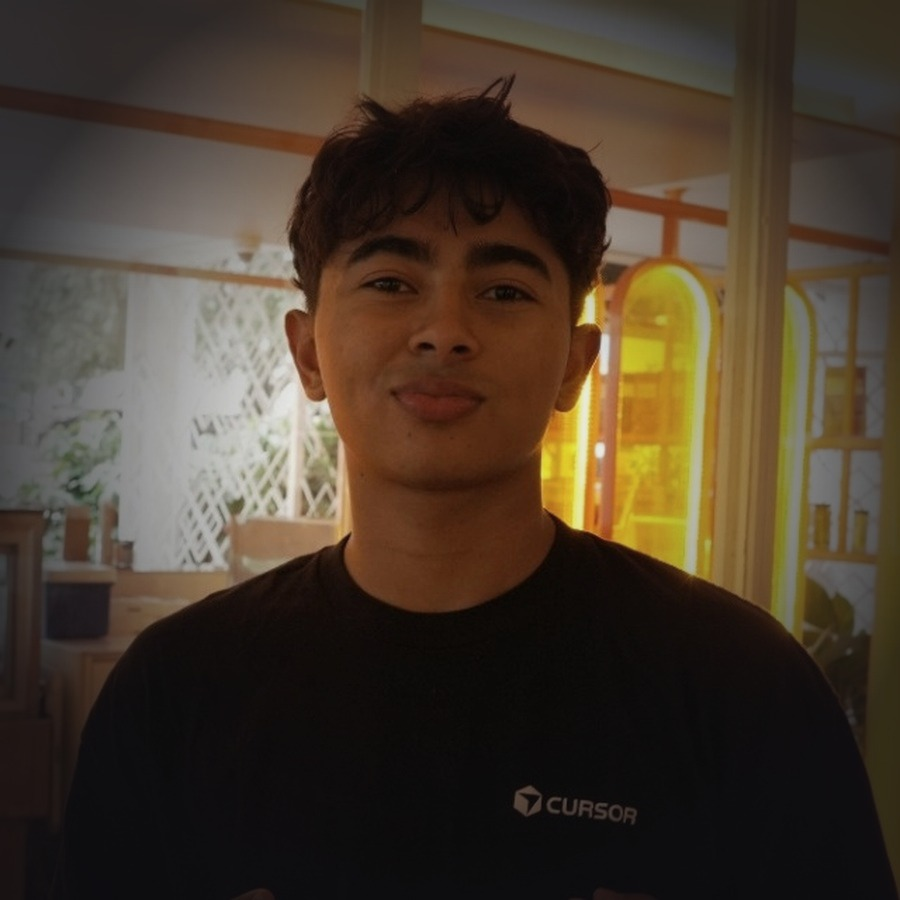
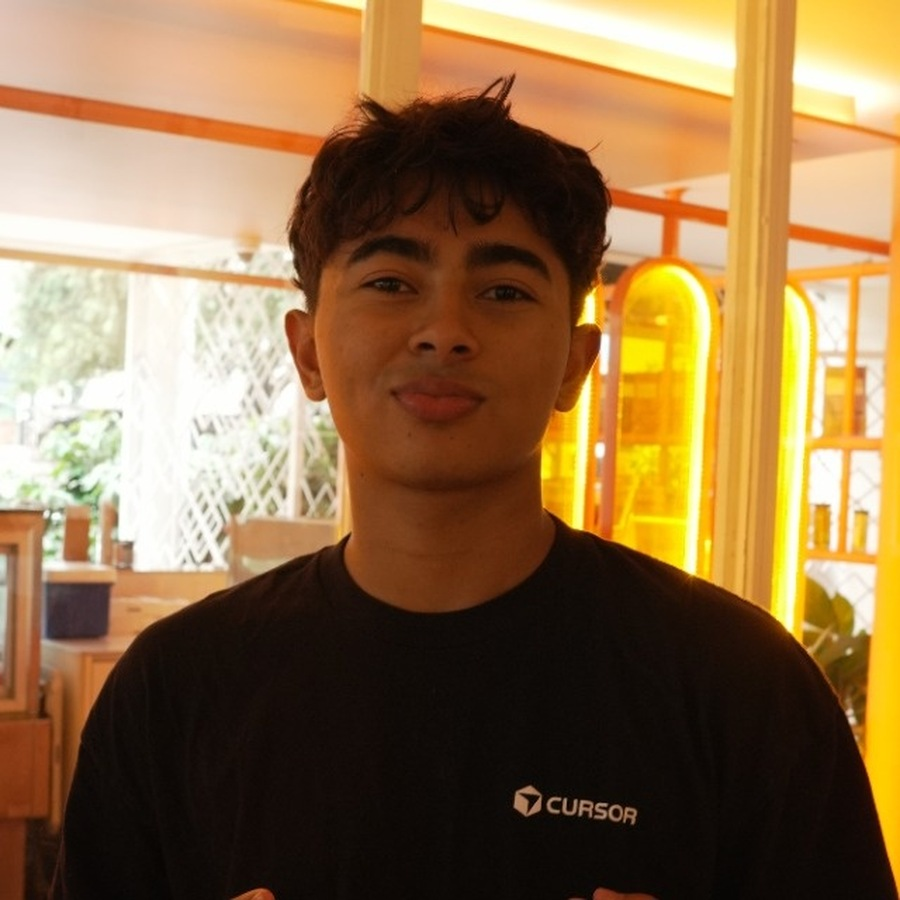
p9: recenter team photos without vignette (face3)
Update all five portraits with face-centered crops like Josué;
bump img cache-bust to ?v=face3.

diff --git a/p9/index.html b/p9/index.html
@@ -205,7 +205,7 @@ html,body{overflow-x:clip}
 <div class="rec"><article><b>01</b><h3>Talleres prácticos</h3><p>Sesiones para aprender haciendo, desde lo básico hasta lo aplicado.</p></article><article><b>02</b><h3>Material educativo</h3><p>Guías, recursos y contenido curado para explorar Web3 a tu ritmo.</p></article><article><b>03</b><h3>Networking y comunidad</h3><p>Espacios para conectar con personas, ideas y proyectos.</p></article><article><b>04</b><h3>Oportunidades</h3><p>Difusión de programas, convocatorias y espacios para participar.</p></article></div></section>
 <section><div class="hd"><h2><span class="thin">Así se vive</span><br><span class="heavy">ZEEK</span></h2></div><div class="gal"><figure class="big"><img src="assets/g-aleph-grupo.jpg" alt="Aleph Hackathon II" loading="lazy"><figcaption>Aleph Hackathon II</figcaption></figure><figure class=""><img src="assets/g-dev3pack.jpg" alt="Dev3Pack x Solana" loading="lazy"><figcaption>Dev3Pack x Solana</figcaption></figure><figure class=""><img src="assets/g-aleph-build.jpg" alt="Aleph Hackathon" loading="lazy"><figcaption>Aleph Hackathon</figcaption></figure><figure class=""><img src="assets/g-cursor.jpg" alt="Cursor Meetup San José" loading="lazy"><figcaption>Cursor Meetup San José</figcaption></figure><figure class=""><img src="assets/g-tico.jpg" alt="TicoBlockchain" loading="lazy"><figcaption>TicoBlockchain</figcaption></figure><figure class="wide"><img src="assets/gal-una-wide.jpg" alt="Meet Up UNA · 9 de mayo" loading="lazy"></figure><figure class=""><img src="assets/g-sesiones.jpg" alt="Encuentros ZEEK" loading="lazy"><figcaption>Encuentros ZEEK</figcaption></figure><figure class=""><img src="assets/g-meetup.jpg" alt="Meetup ZEEK" loading="lazy"><figcaption>Meetup ZEEK</figcaption></figure></div></section>
 
-<section id="equipo"><div class="hd"><h2><span class="thin">Las personas</span><br><span class="heavy">detrás de ZEEK</span></h2><p>Conocenos. El equipo que hace posible la comunidad.</p></div><div class="team" id="tcar"><button class="arr tarr" id="tpv" type="button" aria-label="Anterior">←</button><button class="arr tarr" id="tnx" type="button" aria-label="Siguiente">→</button><div class="fl3"><div class="fi3"><div class="fa3"><div class="av3"><img src="assets/team/sebastian.jpg?v=vignette1" alt="Sebastián Ceciliano" width="120" height="120" loading="lazy" decoding="async"></div><div class="nm"><h4>Sebastián Ceciliano</h4><span class="ib" aria-hidden="true"><svg viewBox="0 0 24 24"><polyline points="3 17 9 11 13 15 21 7"/><polyline points="15 7 21 7 21 13"/></svg></span></div></div><div class="fb3"><div class="rl">Growth Head</div><p>Lidera el crecimiento de ZEEK, sumando aliados y nuevas oportunidades para la comunidad.</p></div></div></div><div class="fl3"><div class="fi3"><div class="fa3"><div class="av3"><img src="assets/team/tamara.jpg?v=vignette1" alt="Tamara Ortega" width="120" height="120" loading="lazy" decoding="async"></div><div class="nm"><h4>Tamara Ortega</h4><span class="ib" aria-hidden="true"><svg viewBox="0 0 24 24"><path d="M9.6 2.8h4.8l.55 2.15a6.9 6.9 0 0 1 1.85.95l2.1-.9 2.4 4.15-1.7 1.55c.12.45.18.92.18 1.4s-.06.95-.18 1.4l1.7 1.55-2.4 4.15-2.1-.9a6.9 6.9 0 0 1-1.85.95L14.4 21.2H9.6l-.55-2.15a6.9 6.9 0 0 1-1.85-.95l-2.1.9-2.4-4.15 1.7-1.55A6.8 6.8 0 0 1 4.22 12c0-.48.06-.95.18-1.4L2.7 9.05l2.4-4.15 2.1.9a6.9 6.9 0 0 1 1.85-.95L9.6 2.8z"/><circle cx="12" cy="12" r="3.1"/></svg></span></div></div><div class="fb3"><div class="rl">Operations Head</div><p>Lleva a cabo que los proyectos de ZEEK pasen del papel a la realidad.</p></div></div></div><div class="fl3"><div class="fi3"><div class="fa3"><div class="av3"><img src="assets/team/emilio.jpg?v=vignette1" alt="Emilio Alfaro" width="120" height="120" loading="lazy" decoding="async"></div><div class="nm"><h4>Emilio Alfaro</h4><span class="ib" aria-hidden="true"><svg viewBox="0 0 24 24"><path d="M4.5 5.5h11a2 2 0 0 1 2 2v5.2a2 2 0 0 1-2 2H10l-3.2 2.6V14.7H4.5a2 2 0 0 1-2-2V7.5a2 2 0 0 1 2-2z"/><path d="M9.2 16.8h6.3l2.6 2.1v-2.1h.4a2 2 0 0 0 2-2V10"/></svg></span></div></div><div class="fb3"><div class="rl">Communications Head</div><p>Cuenta lo que pasa en ZEEK, compartiendo lo que la comunidad construye.</p></div></div></div><div class="fl3"><div class="fi3"><div class="fa3"><div class="av3"><img src="assets/team/esteban.jpg?v=vignette1" alt="Esteban Brenes" width="120" height="120" loading="lazy" decoding="async"></div><div class="nm"><h4>Esteban Brenes</h4><span class="ib" aria-hidden="true"><svg viewBox="0 0 24 24"><polyline points="8 6 3 12 8 18"/><polyline points="16 6 21 12 16 18"/><line x1="13.5" y1="5" x2="10.5" y2="19"/></svg></span></div></div><div class="fb3"><div class="rl">Technical Head</div><p>Acompaña a los builders de ZEEK en el desarrollo de cada proyecto.</p></div></div></div><div class="fl3"><div class="fi3"><div class="fa3"><div class="av3"><img src="assets/team/josue.jpg?v=vignette1" alt="Josué Valles" width="120" height="120" loading="lazy" decoding="async"></div><div class="nm"><h4>Josué Valles</h4><span class="ib" aria-hidden="true"><svg viewBox="0 0 24 24"><rect x="3.5" y="5" width="17" height="15.5" rx="2"/><line x1="3.5" y1="10" x2="20.5" y2="10"/><line x1="8" y1="3.5" x2="8" y2="7"/><line x1="16" y1="3.5" x2="16" y2="7"/><circle cx="8.5" cy="14.2" r="0.9" fill="#01E576" stroke="none"/><circle cx="12" cy="14.2" r="0.9" fill="#01E576" stroke="none"/><circle cx="15.5" cy="14.2" r="0.9" fill="#01E576" stroke="none"/></svg></span></div></div><div class="fb3"><div class="rl">Logistics Head</div><p>Coordina que cada evento de la comunidad esté listo, desde el espacio hasta los detalles.</p></div></div></div></div><div class="cc tcc"><div class="dots" id="tdots"></div></div></section>
+<section id="equipo"><div class="hd"><h2><span class="thin">Las personas</span><br><span class="heavy">detrás de ZEEK</span></h2><p>Conocenos. El equipo que hace posible la comunidad.</p></div><div class="team" id="tcar"><button class="arr tarr" id="tpv" type="button" aria-label="Anterior">←</button><button class="arr tarr" id="tnx" type="button" aria-label="Siguiente">→</button><div class="fl3"><div class="fi3"><div class="fa3"><div class="av3"><img src="assets/team/sebastian.jpg?v=face3" alt="Sebastián Ceciliano" width="120" height="120" loading="lazy" decoding="async"></div><div class="nm"><h4>Sebastián Ceciliano</h4><span class="ib" aria-hidden="true"><svg viewBox="0 0 24 24"><polyline points="3 17 9 11 13 15 21 7"/><polyline points="15 7 21 7 21 13"/></svg></span></div></div><div class="fb3"><div class="rl">Growth Head</div><p>Lidera el crecimiento de ZEEK, sumando aliados y nuevas oportunidades para la comunidad.</p></div></div></div><div class="fl3"><div class="fi3"><div class="fa3"><div class="av3"><img src="assets/team/tamara.jpg?v=face3" alt="Tamara Ortega" width="120" height="120" loading="lazy" decoding="async"></div><div class="nm"><h4>Tamara Ortega</h4><span class="ib" aria-hidden="true"><svg viewBox="0 0 24 24"><path d="M9.6 2.8h4.8l.55 2.15a6.9 6.9 0 0 1 1.85.95l2.1-.9 2.4 4.15-1.7 1.55c.12.45.18.92.18 1.4s-.06.95-.18 1.4l1.7 1.55-2.4 4.15-2.1-.9a6.9 6.9 0 0 1-1.85.95L14.4 21.2H9.6l-.55-2.15a6.9 6.9 0 0 1-1.85-.95l-2.1.9-2.4-4.15 1.7-1.55A6.8 6.8 0 0 1 4.22 12c0-.48.06-.95.18-1.4L2.7 9.05l2.4-4.15 2.1.9a6.9 6.9 0 0 1 1.85-.95L9.6 2.8z"/><circle cx="12" cy="12" r="3.1"/></svg></span></div></div><div class="fb3"><div class="rl">Operations Head</div><p>Lleva a cabo que los proyectos de ZEEK pasen del papel a la realidad.</p></div></div></div><div class="fl3"><div class="fi3"><div class="fa3"><div class="av3"><img src="assets/team/emilio.jpg?v=face3" alt="Emilio Alfaro" width="120" height="120" loading="lazy" decoding="async"></div><div class="nm"><h4>Emilio Alfaro</h4><span class="ib" aria-hidden="true"><svg viewBox="0 0 24 24"><path d="M4.5 5.5h11a2 2 0 0 1 2 2v5.2a2 2 0 0 1-2 2H10l-3.2 2.6V14.7H4.5a2 2 0 0 1-2-2V7.5a2 2 0 0 1 2-2z"/><path d="M9.2 16.8h6.3l2.6 2.1v-2.1h.4a2 2 0 0 0 2-2V10"/></svg></span></div></div><div class="fb3"><div class="rl">Communications Head</div><p>Cuenta lo que pasa en ZEEK, compartiendo lo que la comunidad construye.</p></div></div></div><div class="fl3"><div class="fi3"><div class="fa3"><div class="av3"><img src="assets/team/esteban.jpg?v=face3" alt="Esteban Brenes" width="120" height="120" loading="lazy" decoding="async"></div><div class="nm"><h4>Esteban Brenes</h4><span class="ib" aria-hidden="true"><svg viewBox="0 0 24 24"><polyline points="8 6 3 12 8 18"/><polyline points="16 6 21 12 16 18"/><line x1="13.5" y1="5" x2="10.5" y2="19"/></svg></span></div></div><div class="fb3"><div class="rl">Technical Head</div><p>Acompaña a los builders de ZEEK en el desarrollo de cada proyecto.</p></div></div></div><div class="fl3"><div class="fi3"><div class="fa3"><div class="av3"><img src="assets/team/josue.jpg?v=face3" alt="Josué Valles" width="120" height="120" loading="lazy" decoding="async"></div><div class="nm"><h4>Josué Valles</h4><span class="ib" aria-hidden="true"><svg viewBox="0 0 24 24"><rect x="3.5" y="5" width="17" height="15.5" rx="2"/><line x1="3.5" y1="10" x2="20.5" y2="10"/><line x1="8" y1="3.5" x2="8" y2="7"/><line x1="16" y1="3.5" x2="16" y2="7"/><circle cx="8.5" cy="14.2" r="0.9" fill="#01E576" stroke="none"/><circle cx="12" cy="14.2" r="0.9" fill="#01E576" stroke="none"/><circle cx="15.5" cy="14.2" r="0.9" fill="#01E576" stroke="none"/></svg></span></div></div><div class="fb3"><div class="rl">Logistics Head</div><p>Coordina que cada evento de la comunidad esté listo, desde el espacio hasta los detalles.</p></div></div></div></div><div class="cc tcc"><div class="dots" id="tdots"></div></div></section>
 <section class="partners"><div class="hd"><h2><span class="thin">Nuestros</span><br><span class="heavy">partners</span></h2><p>Organizaciones que construyen con nosotros.</p></div>
 <div class="mqw"><div class="mq"><div class="tr"><a class="pt" href="https://linktr.ee/StellarLATAM" target="_blank" rel="noopener" aria-label="Starmaker · Stellar (abre en pestaña nueva)"><img src="assets/p-stellar.jpg" alt=""><div>Starmaker · Stellar<small>PARTNER</small></div></a><a class="pt" href="https://www.techrebel.world/" target="_blank" rel="noopener" aria-label="Tech Rebel (abre en pestaña nueva)"><span class="wm2">TECH<i>REBEL</i></span><div><small>PARTNER</small></div></a><a class="pt" href="https://crecimiento.build/" target="_blank" rel="noopener" aria-label="Crecimiento (abre en pestaña nueva)"><img src="assets/p-crecimiento.jpg" alt=""><div>Crecimiento<small>PARTNER</small></div></a><a class="pt" href="https://www.blockchainacceleration.org/" target="_blank" rel="noopener" aria-label="BAF (abre en pestaña nueva)"><img src="assets/partners/p-baf.png" alt=""><div>BAF<small>PARTNER</small></div></a><a class="pt" href="https://solana.com/" target="_blank" rel="noopener" aria-label="Solana (abre en pestaña nueva)"><img src="assets/partners/p-solana.png" alt=""><div>Solana<small>PARTNER</small></div></a><a class="pt" href="https://www.dev3pack.xyz/" target="_blank" rel="noopener" aria-label="Dev3Pack (abre en pestaña nueva)"><img src="assets/partners/p-dev3pack.png" alt=""><div>Dev3Pack<small>PARTNER</small></div></a><a class="pt" href="https://cursor.com/" target="_blank" rel="noopener" aria-label="Cursor (abre en pestaña nueva)"><img src="assets/partners/p-cursor.png" alt=""><div>Cursor<small>PARTNER</small></div></a><a class="pt" href="https://pizzadao.org/" target="_blank" rel="noopener" aria-label="PizzaDAO (abre en pestaña nueva)"><img src="assets/partners/p-pizzadao.png" alt=""><div>PizzaDAO<small>PARTNER</small></div></a><a class="pt" href="https://telluscoop.org/" target="_blank" rel="noopener" aria-label="TellusCoop (abre en pestaña nueva)"><img src="assets/partners/p-tellus.png" alt=""><div>TellusCoop<small>PARTNER</small></div></a><a class="pt" href="https://linktr.ee/StellarLATAM" target="_blank" rel="noopener" aria-label="Starmaker · Stellar (abre en pestaña nueva)" tabindex="-1" aria-hidden="true"><img src="assets/p-stellar.jpg" alt=""><div>Starmaker · Stellar<small>PARTNER</small></div></a><a class="pt" href="https://www.techrebel.world/" target="_blank" rel="noopener" aria-label="Tech Rebel (abre en pestaña nueva)" tabindex="-1" aria-hidden="true"><span class="wm2">TECH<i>REBEL</i></span><div><small>PARTNER</small></div></a><a class="pt" href="https://crecimiento.build/" target="_blank" rel="noopener" aria-label="Crecimiento (abre en pestaña nueva)" tabindex="-1" aria-hidden="true"><img src="assets/p-crecimiento.jpg" alt=""><div>Crecimiento<small>PARTNER</small></div></a><a class="pt" href="https://www.blockchainacceleration.org/" target="_blank" rel="noopener" aria-label="BAF (abre en pestaña nueva)" tabindex="-1" aria-hidden="true"><img src="assets/partners/p-baf.png" alt=""><div>BAF<small>PARTNER</small></div></a><a class="pt" href="https://solana.com/" target="_blank" rel="noopener" aria-label="Solana (abre en pestaña nueva)" tabindex="-1" aria-hidden="true"><img src="assets/partners/p-solana.png" alt=""><div>Solana<small>PARTNER</small></div></a><a class="pt" href="https://www.dev3pack.xyz/" target="_blank" rel="noopener" aria-label="Dev3Pack (abre en pestaña nueva)" tabindex="-1" aria-hidden="true"><img src="assets/partners/p-dev3pack.png" alt=""><div>Dev3Pack<small>PARTNER</small></div></a><a class="pt" href="https://cursor.com/" target="_blank" rel="noopener" aria-label="Cursor (abre en pestaña nueva)" tabindex="-1" aria-hidden="true"><img src="assets/partners/p-cursor.png" alt=""><div>Cursor<small>PARTNER</small></div></a><a class="pt" href="https://pizzadao.org/" target="_blank" rel="noopener" aria-label="PizzaDAO (abre en pestaña nueva)" tabindex="-1" aria-hidden="true"><img src="assets/partners/p-pizzadao.png" alt=""><div>PizzaDAO<small>PARTNER</small></div></a><a class="pt" href="https://telluscoop.org/" target="_blank" rel="noopener" aria-label="TellusCoop (abre en pestaña nueva)" tabindex="-1" aria-hidden="true"><img src="assets/partners/p-tellus.png" alt=""><div>TellusCoop<small>PARTNER</small></div></a><a class="pt" href="https://linktr.ee/StellarLATAM" target="_blank" rel="noopener" aria-label="Starmaker · Stellar (abre en pestaña nueva)" tabindex="-1" aria-hidden="true"><img src="assets/p-stellar.jpg" alt=""><div>Starmaker · Stellar<small>PARTNER</small></div></a><a class="pt" href="https://www.techrebel.world/" target="_blank" rel="noopener" aria-label="Tech Rebel (abre en pestaña nueva)" tabindex="-1" aria-hidden="true"><span class="wm2">TECH<i>REBEL</i></span><div><small>PARTNER</small></div></a><a class="pt" href="https://crecimiento.build/" target="_blank" rel="noopener" aria-label="Crecimiento (abre en pestaña nueva)" tabindex="-1" aria-hidden="true"><img src="assets/p-crecimiento.jpg" alt=""><div>Crecimiento<small>PARTNER</small></div></a><a class="pt" href="https://www.blockchainacceleration.org/" target="_blank" rel="noopener" aria-label="BAF (abre en pestaña nueva)" tabindex="-1" aria-hidden="true"><img src="assets/partners/p-baf.png" alt=""><div>BAF<small>PARTNER</small></div></a><a class="pt" href="https://solana.com/" target="_blank" rel="noopener" aria-label="Solana (abre en pestaña nueva)" tabindex="-1" aria-hidden="true"><img src="assets/partners/p-solana.png" alt=""><div>Solana<small>PARTNER</small></div></a><a class="pt" href="https://www.dev3pack.xyz/" target="_blank" rel="noopener" aria-label="Dev3Pack (abre en pestaña nueva)" tabindex="-1" aria-hidden="true"><img src="assets/partners/p-dev3pack.png" alt=""><div>Dev3Pack<small>PARTNER</small></div></a><a class="pt" href="https://cursor.com/" target="_blank" rel="noopener" aria-label="Cursor (abre en pestaña nueva)" tabindex="-1" aria-hidden="true"><img src="assets/partners/p-cursor.png" alt=""><div>Cursor<small>PARTNER</small></div></a><a class="pt" href="https://pizzadao.org/" target="_blank" rel="noopener" aria-label="PizzaDAO (abre en pestaña nueva)" tabindex="-1" aria-hidden="true"><img src="assets/partners/p-pizzadao.png" alt=""><div>PizzaDAO<small>PARTNER</small></div></a><a class="pt" href="https://telluscoop.org/" target="_blank" rel="noopener" aria-label="TellusCoop (abre en pestaña nueva)" tabindex="-1" aria-hidden="true"><img src="assets/partners/p-tellus.png" alt=""><div>TellusCoop<small>PARTNER</small></div></a></div></div><div class="mq rev"><div class="tr"><a class="pt" href="https://www.ticoblockchain.cr/" target="_blank" rel="noopener" aria-label="Ticoblockchain (abre en pestaña nueva)"><div>Ticoblockchain<small>ALIADO</small></div></a><a class="pt" href="https://ufidelitas.ac.cr/" target="_blank" rel="noopener" aria-label="Fidélitas (abre en pestaña nueva)"><div>Fidélitas<small>ALIADO</small></div></a><a class="pt" href="https://www.trustlesswork.com/" target="_blank" rel="noopener" aria-label="Trustless Work (abre en pestaña nueva)"><img src="assets/partners/p-trustless.png" alt=""><div>Trustless Work<small>ALIADO</small></div></a><a class="pt" href="https://asoblockchain.org/" target="_blank" rel="noopener" aria-label="AsoBlockchain (abre en pestaña nueva)"><img src="assets/partners/p-aso.png" alt=""><div>AsoBlockchain<small>ALIADO</small></div></a><a class="pt" href="https://stellar.org/" target="_blank" rel="noopener" aria-label="Stellar SDF (abre en pestaña nueva)"><img src="assets/partners/p-sdf.png" alt=""><div>Stellar SDF<small>ALIADO</small></div></a><a class="pt" href="https://stellarpassport.xyz/" target="_blank" rel="noopener" aria-label="Stellar Passport (abre en pestaña nueva)"><img src="assets/partners/p-spassport.png" alt=""><div>Stellar Passport<small>ALIADO</small></div></a><a class="pt" href="https://luma.com/user/SuperteamCR" target="_blank" rel="noopener" aria-label="Superteam CR (abre en pestaña nueva)"><img src="assets/partners/p-superteam.png" alt=""><div>Superteam CR<small>ALIADO</small></div></a><a class="pt" href="https://www.lyfter.academy/" target="_blank" rel="noopener" aria-label="Lyfter (abre en pestaña nueva)"><img src="assets/partners/p-lyfter.png" alt=""><div>Lyfter<small>ALIADO</small></div></a><a class="pt" href="https://brave.com/" target="_blank" rel="noopener" aria-label="Brave (abre en pestaña nueva)"><img src="assets/partners/p-brave.png" alt=""><div>Brave<small>ALIADO</small></div></a><a class="pt" href="https://crtechweek.com/" target="_blank" rel="noopener" aria-label="CR Tech Week (abre en pestaña nueva)"><img src="assets/partners/p-crtech.png" alt=""><div>CR Tech Week<small>ALIADO</small></div></a><a class="pt" href="https://costarica.wordcamp.org/2026/sponsor/zeek/" target="_blank" rel="noopener" aria-label="WordCamp CR (abre en pestaña nueva)"><img src="assets/partners/p-wordcamp.png" alt=""><div>WordCamp CR<small>ALIADO</small></div></a><a class="pt" href="https://linktr.ee/SolanaCR" target="_blank" rel="noopener" aria-label="Solana Costa Rica (abre en pestaña nueva)"><img src="assets/partners/p-solanacr.png" alt=""><div>Solana Costa Rica<small>ALIADO</small></div></a><a class="pt" href="https://luma.com/spacexsi-community" target="_blank" rel="noopener" aria-label="SpaceXSI (abre en pestaña nueva)"><img src="assets/partners/p-spacexsi.png" alt=""><div>SpaceXSI<small>ALIADO</small></div></a><a class="pt" href="https://www.ticoblockchain.cr/" target="_blank" rel="noopener" aria-label="Ticoblockchain (abre en pestaña nueva)" tabindex="-1" aria-hidden="true"><div>Ticoblockchain<small>ALIADO</small></div></a><a class="pt" href="https://ufidelitas.ac.cr/" target="_blank" rel="noopener" aria-label="Fidélitas (abre en pestaña nueva)" tabindex="-1" aria-hidden="true"><div>Fidélitas<small>ALIADO</small></div></a><a class="pt" href="https://www.trustlesswork.com/" target="_blank" rel="noopener" aria-label="Trustless Work (abre en pestaña nueva)" tabindex="-1" aria-hidden="true"><img src="assets/partners/p-trustless.png" alt=""><div>Trustless Work<small>ALIADO</small></div></a><a class="pt" href="https://asoblockchain.org/" target="_blank" rel="noopener" aria-label="AsoBlockchain (abre en pestaña nueva)" tabindex="-1" aria-hidden="true"><img src="assets/partners/p-aso.png" alt=""><div>AsoBlockchain<small>ALIADO</small></div></a><a class="pt" href="https://stellar.org/" target="_blank" rel="noopener" aria-label="Stellar SDF (abre en pestaña nueva)" tabindex="-1" aria-hidden="true"><img src="assets/partners/p-sdf.png" alt=""><div>Stellar SDF<small>ALIADO</small></div></a><a class="pt" href="https://stellarpassport.xyz/" target="_blank" rel="noopener" aria-label="Stellar Passport (abre en pestaña nueva)" tabindex="-1" aria-hidden="true"><img src="assets/partners/p-spassport.png" alt=""><div>Stellar Passport<small>ALIADO</small></div></a><a class="pt" href="https://luma.com/user/SuperteamCR" target="_blank" rel="noopener" aria-label="Superteam CR (abre en pestaña nueva)" tabindex="-1" aria-hidden="true"><img src="assets/partners/p-superteam.png" alt=""><div>Superteam CR<small>ALIADO</small></div></a><a class="pt" href="https://www.lyfter.academy/" target="_blank" rel="noopener" aria-label="Lyfter (abre en pestaña nueva)" tabindex="-1" aria-hidden="true"><img src="assets/partners/p-lyfter.png" alt=""><div>Lyfter<small>ALIADO</small></div></a><a class="pt" href="https://brave.com/" target="_blank" rel="noopener" aria-label="Brave (abre en pestaña nueva)" tabindex="-1" aria-hidden="true"><img src="assets/partners/p-brave.png" alt=""><div>Brave<small>ALIADO</small></div></a><a class="pt" href="https://crtechweek.com/" target="_blank" rel="noopener" aria-label="CR Tech Week (abre en pestaña nueva)" tabindex="-1" aria-hidden="true"><img src="assets/partners/p-crtech.png" alt=""><div>CR Tech Week<small>ALIADO</small></div></a><a class="pt" href="https://costarica.wordcamp.org/2026/sponsor/zeek/" target="_blank" rel="noopener" aria-label="WordCamp CR (abre en pestaña nueva)" tabindex="-1" aria-hidden="true"><img src="assets/partners/p-wordcamp.png" alt=""><div>WordCamp CR<small>ALIADO</small></div></a><a class="pt" href="https://linktr.ee/SolanaCR" target="_blank" rel="noopener" aria-label="Solana Costa Rica (abre en pestaña nueva)" tabindex="-1" aria-hidden="true"><img src="assets/partners/p-solanacr.png" alt=""><div>Solana Costa Rica<small>ALIADO</small></div></a><a class="pt" href="https://luma.com/spacexsi-community" target="_blank" rel="noopener" aria-label="SpaceXSI (abre en pestaña nueva)" tabindex="-1" aria-hidden="true"><img src="assets/partners/p-spacexsi.png" alt=""><div>SpaceXSI<small>ALIADO</small></div></a></div></div></div><div class="pgrid" id="pgrid"><a class="pt" href="https://linktr.ee/StellarLATAM" target="_blank" rel="noopener" aria-label="Starmaker · Stellar (abre en pestaña nueva)"><img src="assets/p-stellar.jpg" alt=""><div>Starmaker · Stellar<small>PARTNER</small></div></a><a class="pt" href="https://www.techrebel.world/" target="_blank" rel="noopener" aria-label="Tech Rebel (abre en pestaña nueva)"><span class="wm2">TECH<i>REBEL</i></span><div><small>PARTNER</small></div></a><a class="pt" href="https://crecimiento.build/" target="_blank" rel="noopener" aria-label="Crecimiento (abre en pestaña nueva)"><img src="assets/p-crecimiento.jpg" alt=""><div>Crecimiento<small>PARTNER</small></div></a><a class="pt" href="https://www.blockchainacceleration.org/" target="_blank" rel="noopener" aria-label="BAF (abre en pestaña nueva)"><img src="assets/partners/p-baf.png" alt=""><div>BAF<small>PARTNER</small></div></a><a class="pt" href="https://solana.com/" target="_blank" rel="noopener" aria-label="Solana (abre en pestaña nueva)"><img src="assets/partners/p-solana.png" alt=""><div>Solana<small>PARTNER</small></div></a><a class="pt" href="https://www.dev3pack.xyz/" target="_blank" rel="noopener" aria-label="Dev3Pack (abre en pestaña nueva)"><img src="assets/partners/p-dev3pack.png" alt=""><div>Dev3Pack<small>PARTNER</small></div></a><a class="pt" href="https://cursor.com/" target="_blank" rel="noopener" aria-label="Cursor (abre en pestaña nueva)"><img src="assets/partners/p-cursor.png" alt=""><div>Cursor<small>PARTNER</small></div></a><a class="pt" href="https://pizzadao.org/" target="_blank" rel="noopener" aria-label="PizzaDAO (abre en pestaña nueva)"><img src="assets/partners/p-pizzadao.png" alt=""><div>PizzaDAO<small>PARTNER</small></div></a><a class="pt" href="https://telluscoop.org/" target="_blank" rel="noopener" aria-label="TellusCoop (abre en pestaña nueva)"><img src="assets/partners/p-tellus.png" alt=""><div>TellusCoop<small>PARTNER</small></div></a><a class="pt" href="https://www.ticoblockchain.cr/" target="_blank" rel="noopener" aria-label="Ticoblockchain (abre en pestaña nueva)"><div>Ticoblockchain<small>ALIADO</small></div></a><a class="pt" href="https://ufidelitas.ac.cr/" target="_blank" rel="noopener" aria-label="Fidélitas (abre en pestaña nueva)"><div>Fidélitas<small>ALIADO</small></div></a><a class="pt" href="https://www.trustlesswork.com/" target="_blank" rel="noopener" aria-label="Trustless Work (abre en pestaña nueva)"><img src="assets/partners/p-trustless.png" alt=""><div>Trustless Work<small>ALIADO</small></div></a><a class="pt" href="https://asoblockchain.org/" target="_blank" rel="noopener" aria-label="AsoBlockchain (abre en pestaña nueva)"><img src="assets/partners/p-aso.png" alt=""><div>AsoBlockchain<small>ALIADO</small></div></a><a class="pt" href="https://stellar.org/" target="_blank" rel="noopener" aria-label="Stellar SDF (abre en pestaña nueva)"><img src="assets/partners/p-sdf.png" alt=""><div>Stellar SDF<small>ALIADO</small></div></a><a class="pt" href="https://stellarpassport.xyz/" target="_blank" rel="noopener" aria-label="Stellar Passport (abre en pestaña nueva)"><img src="assets/partners/p-spassport.png" alt=""><div>Stellar Passport<small>ALIADO</small></div></a><a class="pt" href="https://luma.com/user/SuperteamCR" target="_blank" rel="noopener" aria-label="Superteam CR (abre en pestaña nueva)"><img src="assets/partners/p-superteam.png" alt=""><div>Superteam CR<small>ALIADO</small></div></a><a class="pt" href="https://www.lyfter.academy/" target="_blank" rel="noopener" aria-label="Lyfter (abre en pestaña nueva)"><img src="assets/partners/p-lyfter.png" alt=""><div>Lyfter<small>ALIADO</small></div></a><a class="pt" href="https://brave.com/" target="_blank" rel="noopener" aria-label="Brave (abre en pestaña nueva)"><img src="assets/partners/p-brave.png" alt=""><div>Brave<small>ALIADO</small></div></a><a class="pt" href="https://crtechweek.com/" target="_blank" rel="noopener" aria-label="CR Tech Week (abre en pestaña nueva)"><img src="assets/partners/p-crtech.png" alt=""><div>CR Tech Week<small>ALIADO</small></div></a><a class="pt" href="https://costarica.wordcamp.org/2026/sponsor/zeek/" target="_blank" rel="noopener" aria-label="WordCamp CR (abre en pestaña nueva)"><img src="assets/partners/p-wordcamp.png" alt=""><div>WordCamp CR<small>ALIADO</small></div></a><a class="pt" href="https://linktr.ee/SolanaCR" target="_blank" rel="noopener" aria-label="Solana Costa Rica (abre en pestaña nueva)"><img src="assets/partners/p-solanacr.png" alt=""><div>Solana Costa Rica<small>ALIADO</small></div></a><a class="pt" href="https://luma.com/spacexsi-community" target="_blank" rel="noopener" aria-label="SpaceXSI (abre en pestaña nueva)"><img src="assets/partners/p-spacexsi.png" alt=""><div>SpaceXSI<small>ALIADO</small></div></a></div><button class="pall" type="button" aria-controls="pgrid" aria-expanded="false">Ver todos</button></section>
 <section id="comunidad"><div class="hd"><h2><span class="thin">Nuestros</span><br><span class="heavy">canales</span></h2></div><div class="bento">
